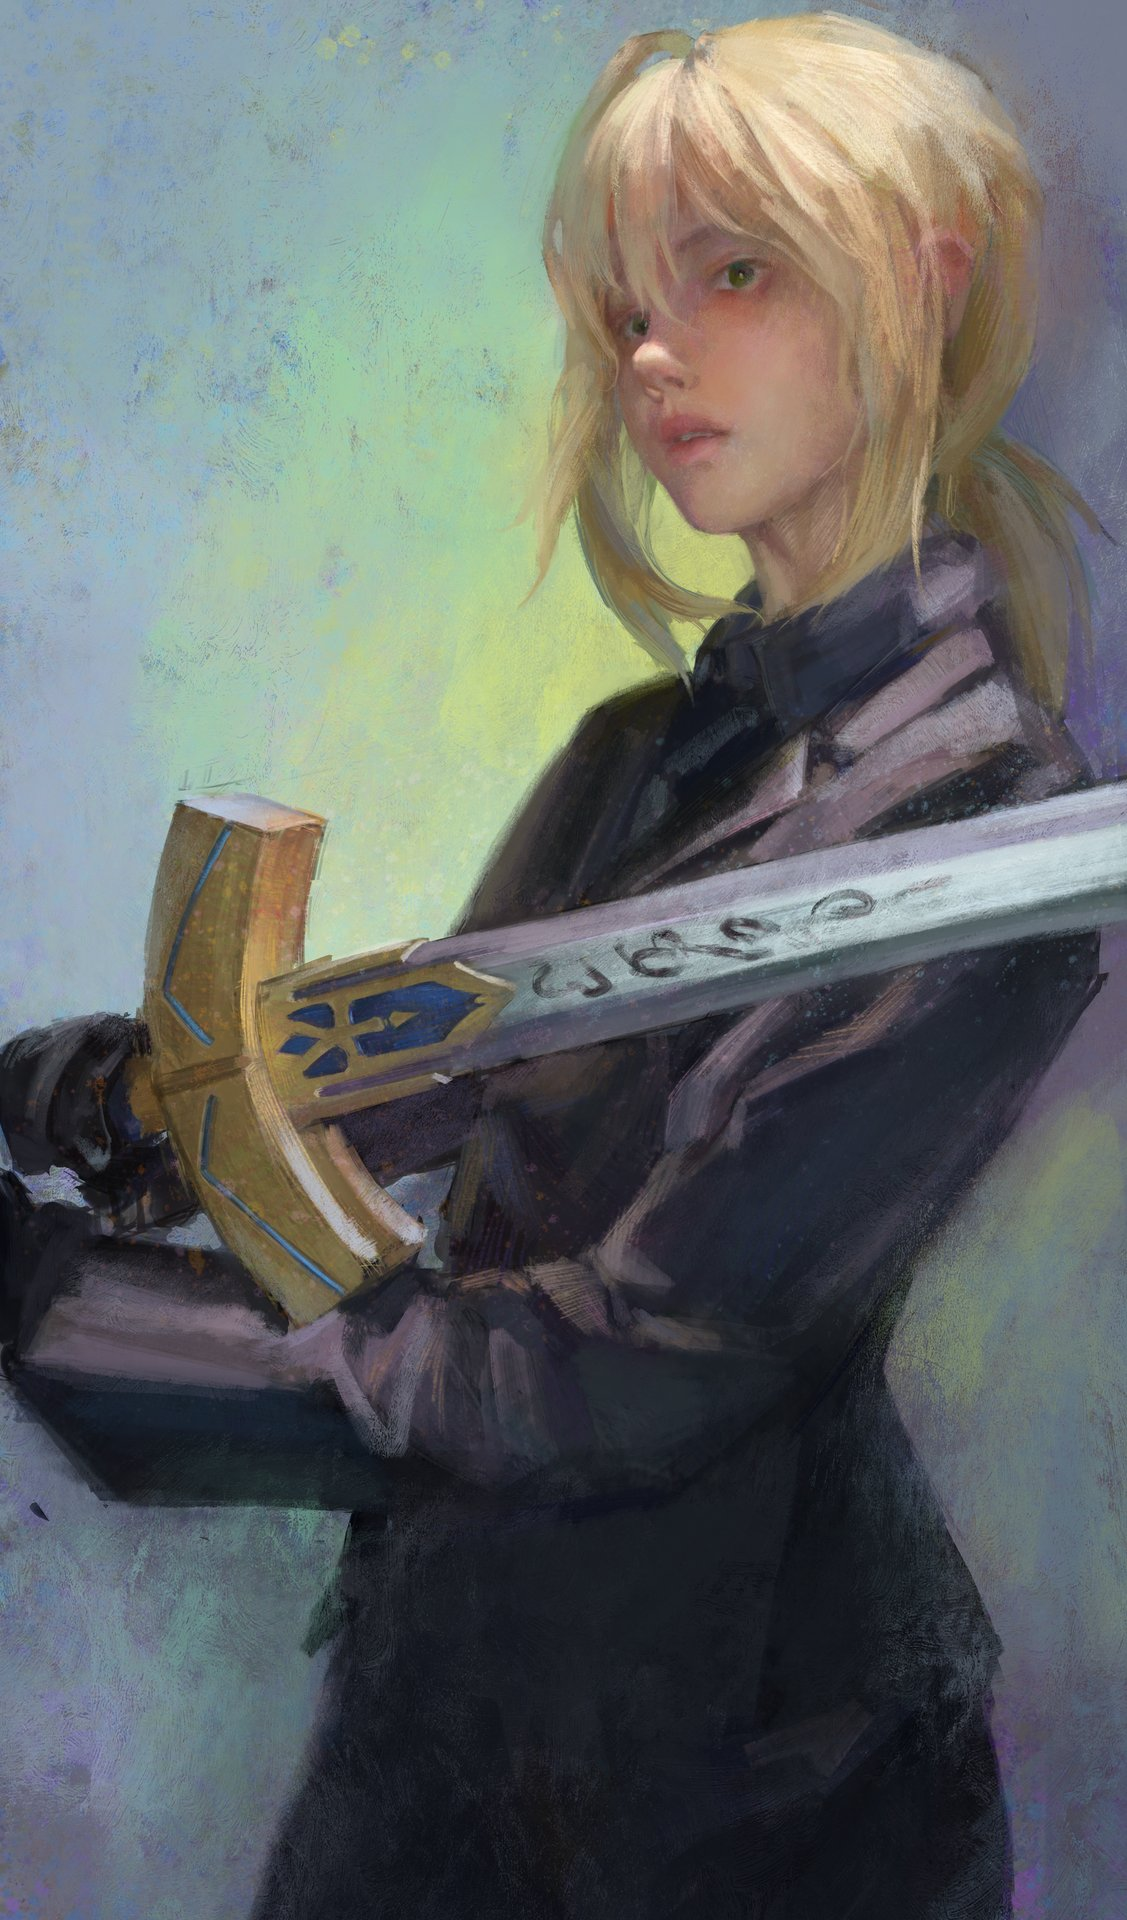
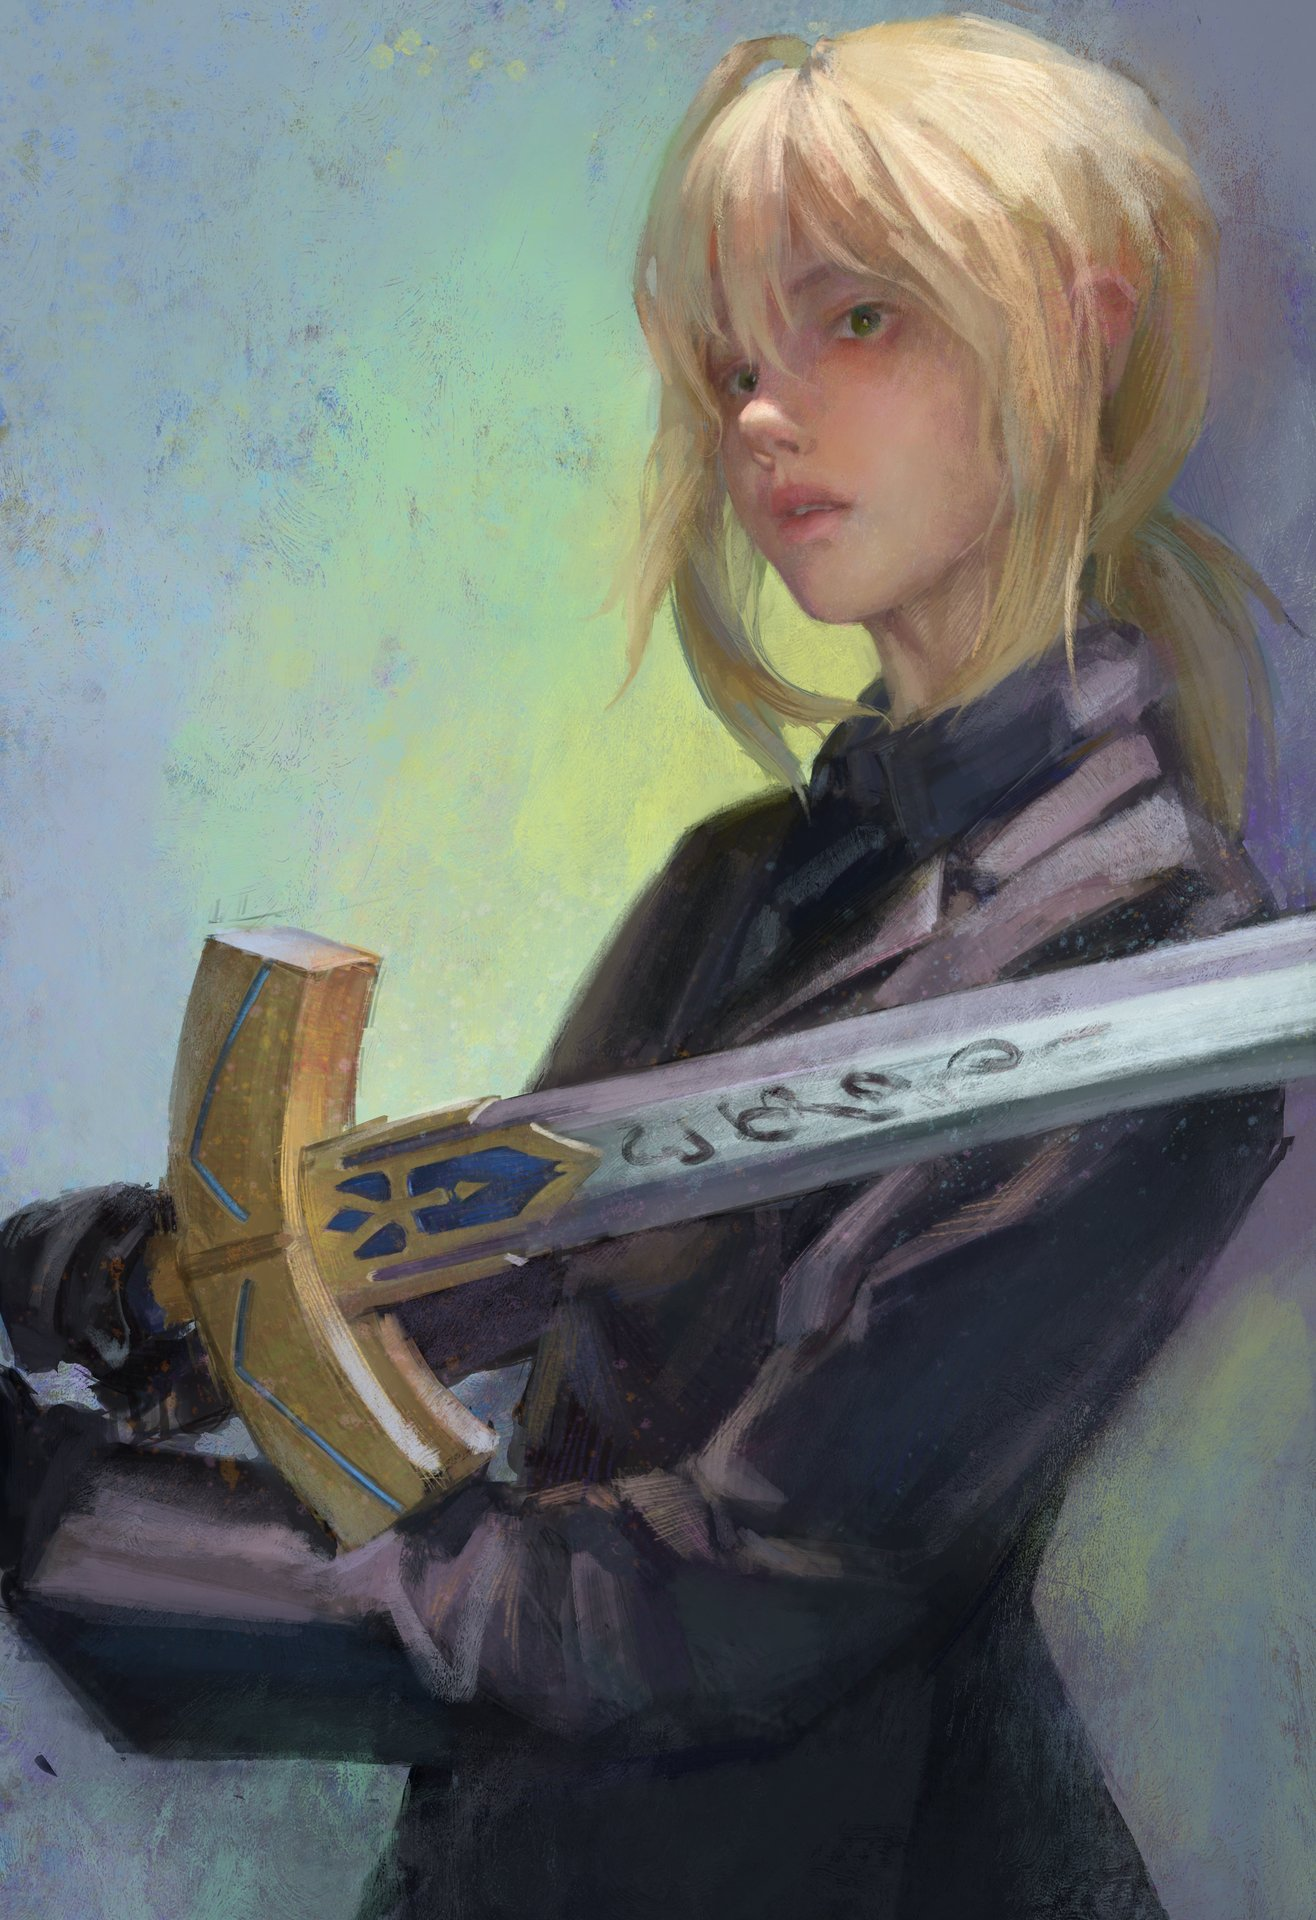
4号插画替换为更新版原图重转码

diff --git a/illustrations.html b/illustrations.html
@@ -36,7 +36,7 @@
           <img class="ill-item" src="./assets/illustrations/ill-thumb-06.jpg" data-full="./assets/illustrations/ill-full-06.jpg" alt="插画 02" />
           <img class="ill-item" src="./assets/illustrations/ill-thumb-05.jpg" data-full="./assets/illustrations/ill-full-05.jpg" alt="插画 03" />
           <img class="ill-item" src="./assets/illustrations/ill-thumb-02.jpg" data-full="./assets/illustrations/ill-full-02.jpg" alt="插画 04" />
-          <img class="ill-item" src="./assets/illustrations/ill-thumb-04.jpg" data-full="./assets/illustrations/ill-full-04.jpg" alt="插画 05" />
+          <img class="ill-item" src="./assets/illustrations/ill-thumb-04.jpg?v=2" data-full="./assets/illustrations/ill-full-04.jpg?v=2" alt="插画 05" />
           <img class="ill-item" src="./assets/illustrations/ill-thumb-10.jpg" data-full="./assets/illustrations/ill-full-10.jpg" alt="插画 06" />
           <img class="ill-item" src="./assets/illustrations/ill-thumb-07.jpg" data-full="./assets/illustrations/ill-full-07.jpg" alt="插画 07" />
           <img class="ill-item" src="./assets/illustrations/ill-thumb-09.jpg" data-full="./assets/illustrations/ill-full-09.jpg" alt="插画 08" />
